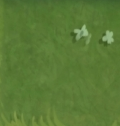
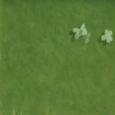
Added Lawn Tile Images To The GUI

diff --git a/Plants vs Zombies/src/run/GameGUI.java b/Plants vs Zombies/src/run/GameGUI.java
@@ -46,7 +46,7 @@ public class GameGUI {
 	//GUI Components
     private JFrame frame;
     private JPanel lawnMowers[];
-    private JPanel lawnTiles[][];
+    private ImagePanel lawnTiles[][];
     
     //Skip Turn button
     private JButton skipTurn;
@@ -94,7 +94,7 @@ public class GameGUI {
 		
 		//Initialize JComponenets
 		lawnMowers = new JPanel[5];
-		lawnTiles = new JPanel[9][5];
+		lawnTiles = new ImagePanel[9][5];
 		lawnMowerSprite = new JLabel[5];
 		
 		//Read Image Files for the Image Buffers
@@ -162,7 +162,21 @@ public class GameGUI {
         	c.gridy = j;
         	
         	//Create the JPanel for each tile
-        	lawnTiles[i][j] = new JPanel();
+        	//Alternate tile images
+        	if (j % 2 == 0) {
+        		if (i % 2 == 0) 
+        			lawnTiles[i][j] = new ImagePanel(new ImageIcon("images/lawnTile.png").getImage());
+        		else
+        			lawnTiles[i][j] = new ImagePanel(new ImageIcon("images/lawnTile2.png").getImage());
+        	}
+        	
+        	else {
+        		if (i % 2 == 0) 
+        			lawnTiles[i][j] = new ImagePanel(new ImageIcon("images/lawnTile2.png").getImage());
+        		else
+        			lawnTiles[i][j] = new ImagePanel(new ImageIcon("images/lawnTile.png").getImage());
+        	}
+        	
         	//Add the MouseListener to each tile so that it responds when clicked
         	lawnTiles[i][j].addMouseListener(new TileController(this, level, i, j));
         	//Set the same size for each tile
@@ -357,9 +371,12 @@ public class GameGUI {
 	 * @param y the y position
 	 */
 	public void addSunflower(int x, int y) {
-		lawnTiles[x][y].add(new JLabel(new ImageIcon(sunflowerImage)));
+		JLabel sunflower = new JLabel();
+		
+		lawnTiles[x][y].add(sunflower);
 		lawnTiles[x][y].revalidate();
 		lawnTiles[x][y].repaint();
+		lawnTiles[x][y].paintComponent(new ImageIcon(sunflowerImage).get);
 	}
 	
 	/**

diff --git a/Plants vs Zombies/src/run/ImagePanel.java b/Plants vs Zombies/src/run/ImagePanel.java
@@ -1,0 +1,30 @@
+package run;
+
+import java.awt.*;
+
+import javax.swing.*;
+
+public class ImagePanel extends JPanel {
+	private Image img;
+
+	  public ImagePanel(String img) {
+	    this(new ImageIcon(img).getImage());
+	  }
+
+	  public ImagePanel(Image img) {
+	    this.img = img;
+	    Dimension size = new Dimension(img.getWidth(null), img.getHeight(null));
+	    setPreferredSize(size);
+	    setMinimumSize(size);
+	    setMaximumSize(size);
+	    setSize(size);
+	    setLayout(null);
+	  }
+
+	  public void paintComponent(Graphics g) {
+	    g.drawImage(img, 0, 0, null);
+	    
+	  }
+
+
+}
